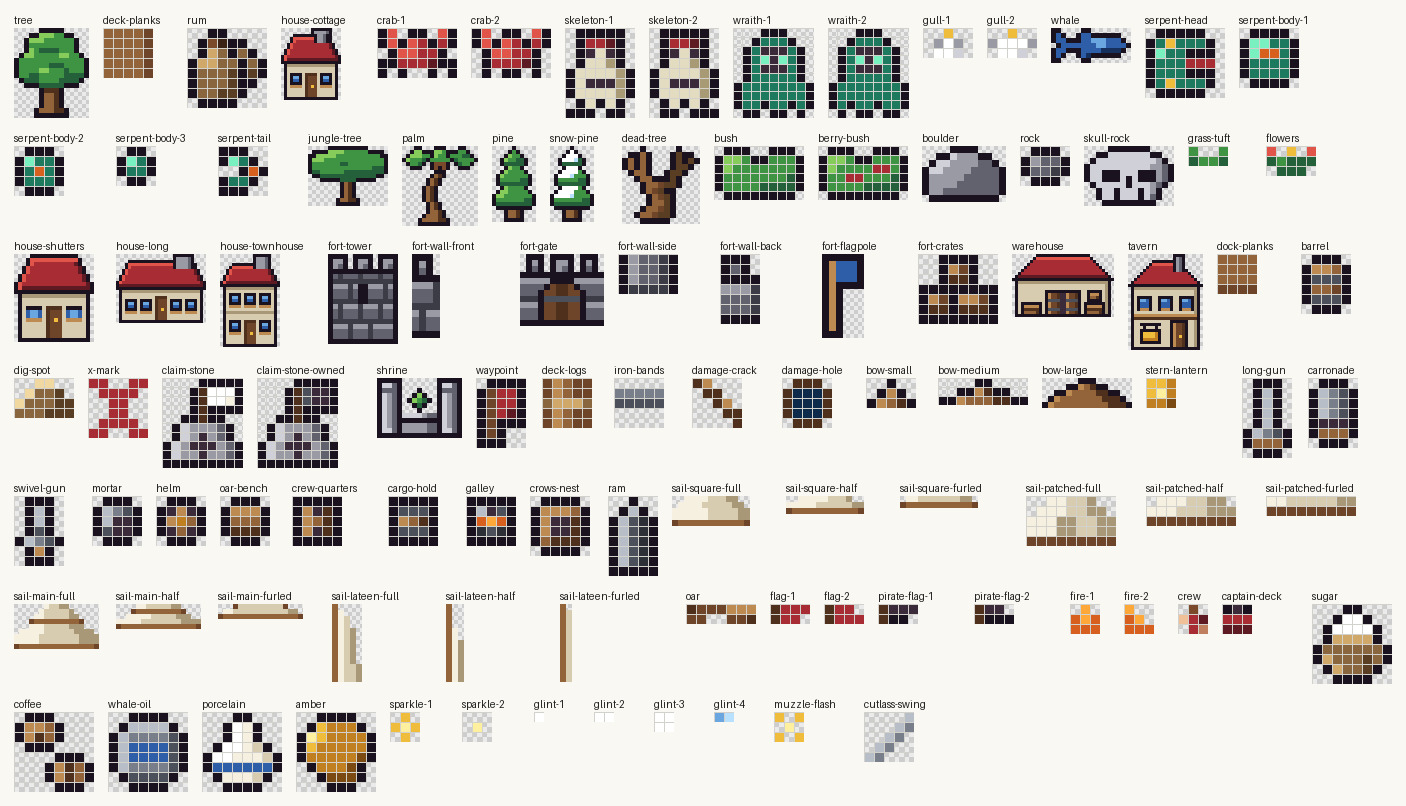
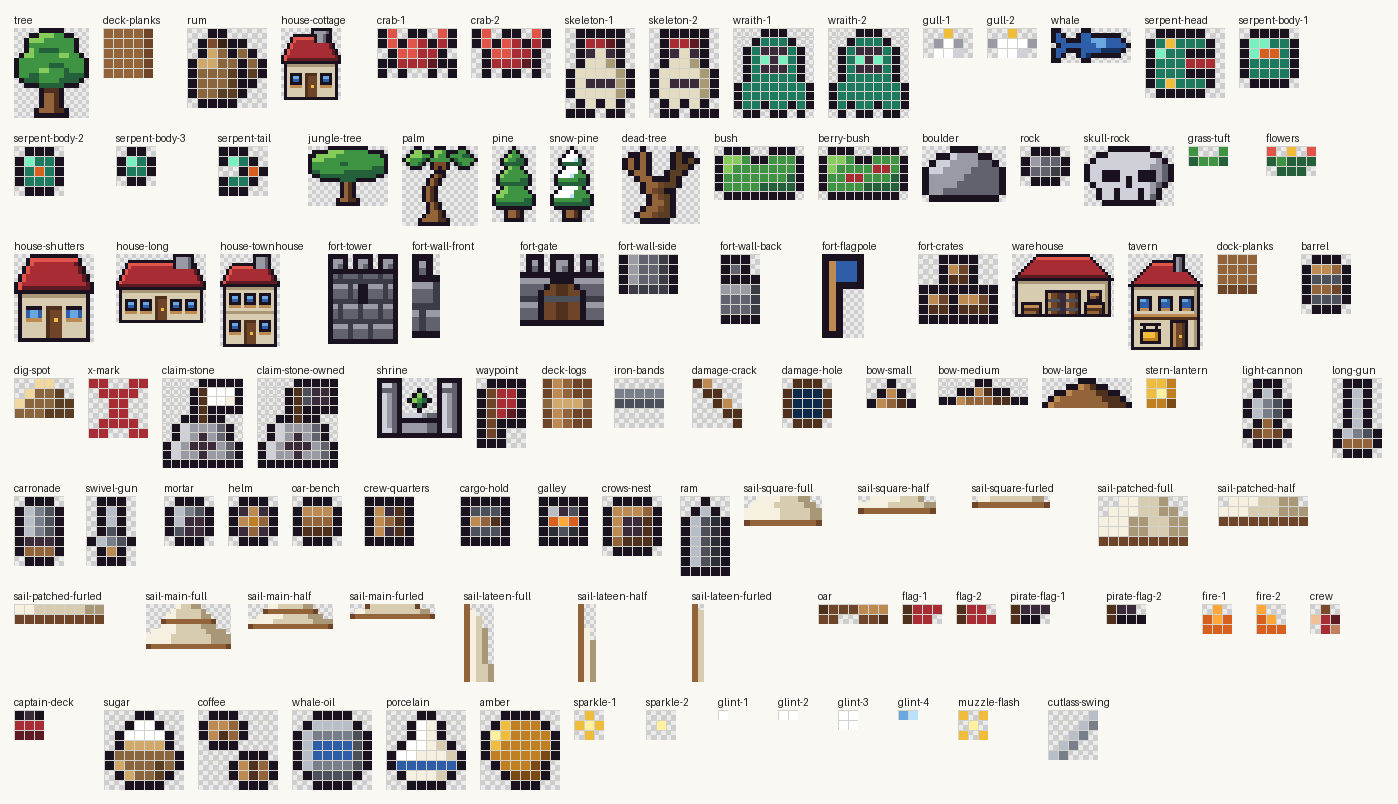
Approve light cannon
Claude-Session: https://claude.ai/code/session_017hBigdyyagtCxF8RX9TYQB

diff --git a/src/art/redraw.ts b/src/art/redraw.ts
@@ -57,6 +57,7 @@ const ROWS: Record<string, string[]> = {
   'house-townhouse': ['...........kkkkkk...', '...........kuuuTk...', '...........kuuuTk...', '....kkkkkkkkuuuTk...', '...keeeeeeekuuuTk...', '..keRRRRRRRRRRRRrk..', '..keRRRRRRRRRRRRrk..', '.keRRRRRRRRRRRRRRrk.', '.keRRRRRRRRRRRRRRrk.', 'kerrrrrrrrrrrrrrrrrk', 'kkkkkkkkkkkkkkkkkkkk', '.kcccccccccccccccck.', '.kCCCCCCCCCCCCCCCCk.', '.kCkkkkCkkkkCkkkkCk.', '.kCkllkCkllkCkllkCk.', '.kCkBBkCkBBkCkBBkCk.', '.kCkkkkCkkkkCkkkkCk.', '.kCVVVVCVVVVCVVVVCk.', '.kCCCCCCCCCCCCCCCCk.', '.kcccccccccccccccck.', '.kCCCCCCCCCCCCCCCCk.', '.kCCCCCCCCCCCCCCCCk.', '.kCkkkkCwwwwCkkkkCk.', '.kCkllkCwWWWCkllkCk.', '.kCkBBkCwWWWCkBBkCk.', '.kCkkkkCwWWWCkkkkCk.', '.kCVVVVCwWyWCVVVVCk.', '.kCCCCCCwWWWCCCCCCk.', '.kCCCCCCwWWWCCCCCCk.', '.kCCCCCCwWWWCCCCCCk.', '.kkkkkkkkkkkkkkkkkk.'],
   'iron-bands': ['.....', 'nnnnn', 'MMMMM', '.....', '.....'],
   'jungle-tree': ['.....kkkkkkkkkk.....', '.kkkkHHHHhhhhhhkkkk.', 'kkHHHHHhhhhhhhhhhhkk', 'kHHHhhhhhhhhhhhhhhhk', 'khhhhhhhGGhhhhhhhhhk', 'khhhhhhhhhhhhhhhGGGk', 'kGGhhhhhhGGGGGGGGGGk', '.kkGGGGGGGGGGGGGGkk.', '...kkkkkGGGGkkkkk...', '........kvwk........', '........kvwk........', '........kvwk........', '........kvwk........', '.......kvvwwk.......', '.......kkkkkk.......'],
+  'light-cannon': ['.kkk.', '.kNk.', 'kNnMk', 'kNnMk', '.kvk.', 'kWvWk', '.kkk.'],
   'long-gun': ['.kkk.', '.kNk.', '.kNk.', '.kNk.', '.kNk.', 'kNnMk', 'kvvvk', '.kkk.'],
   'mortar': ['.kkk.', 'kNnMk', 'kNKKk', 'kMKKk', '.kkk.'],
   'muzzle-flash': ['y.y', '.Y.', 'y.y'],

diff --git a/art/APPROVED.md b/art/APPROVED.md
@@ -68,3 +68,4 @@ Families the critic has passed. Match their style.
 - whale-oil (icons) — round 1
 - porcelain (icons) — round 1
 - amber (icons) — round 1
+- light-cannon (ship) — round 3
